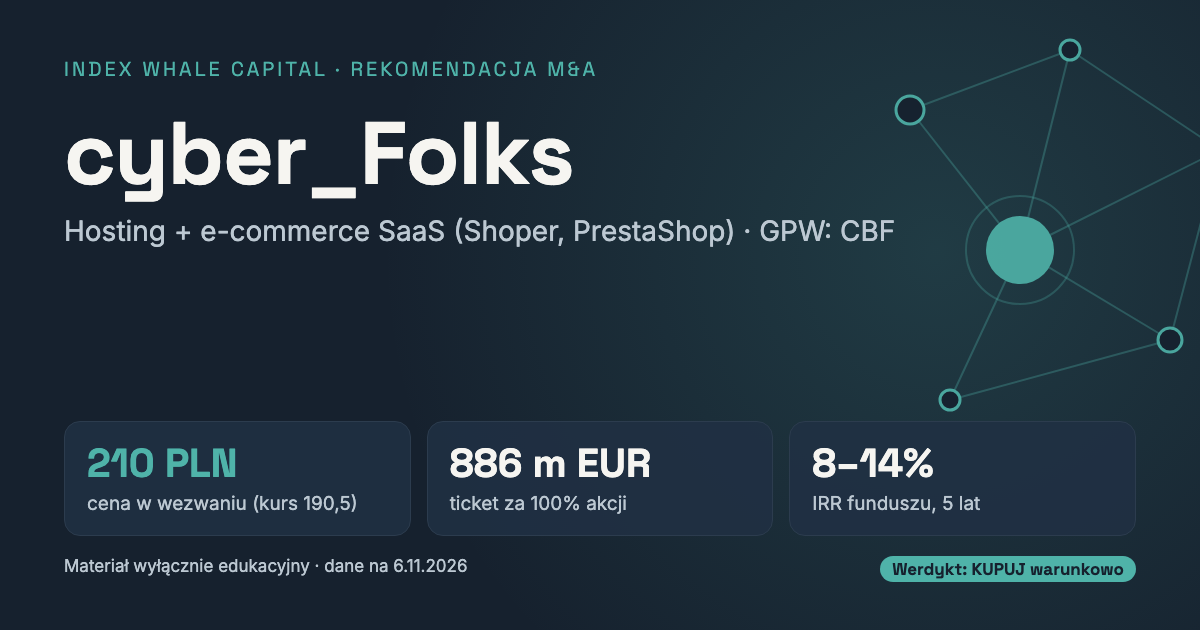
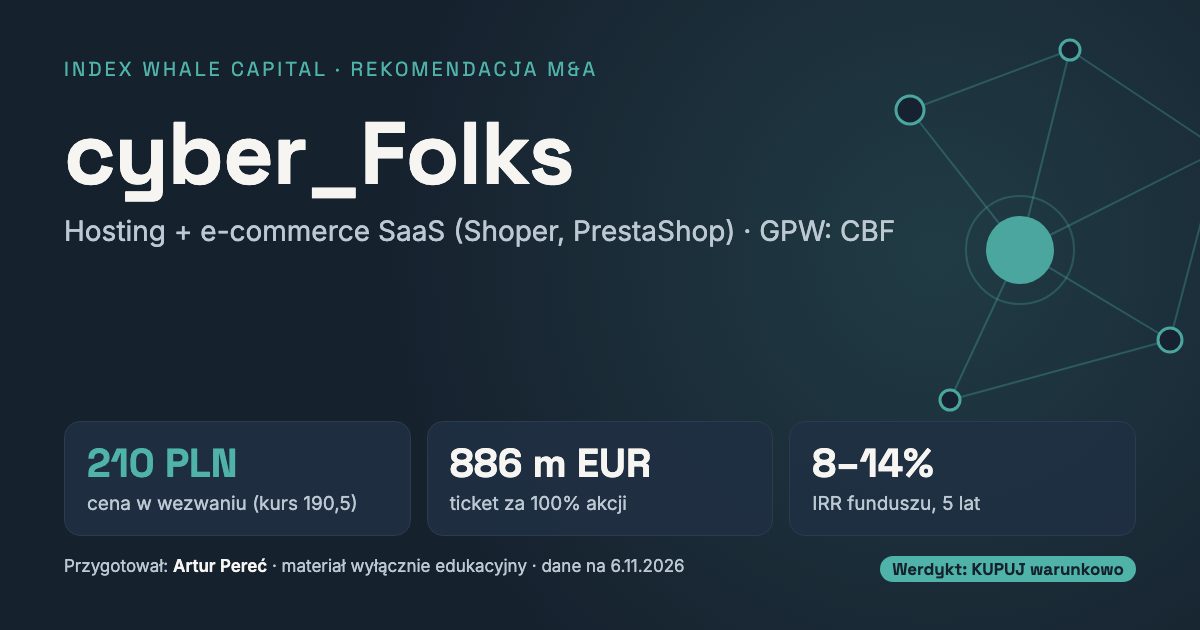
Dodaj autora: Artur Pereć (slajd tytułowy, grafika podglądu, README, model)

Changed region(s): [[0.0617, 0.8746, 0.5858, 0.9349]]

diff --git a/index.html b/index.html
@@ -4,21 +4,22 @@
 <meta charset="utf-8">
 <meta name="viewport" content="width=device-width, initial-scale=1">
 <title>cyber_Folks – rekomendacja inwestycyjna</title>
-<meta name="description" content="Przejęcie kontroli nad cyber_Folks: wezwanie na 100% po 210 PLN, ticket do 886 m EUR, IRR 8–14%. DCF/SOTP i mnożniki. Materiał edukacyjny.">
+<meta name="description" content="Przejęcie kontroli nad cyber_Folks: wezwanie na 100% po 210 PLN, ticket do 886 m EUR, IRR 8–14%. DCF/SOTP i mnożniki. Przygotował: Artur Pereć. Materiał edukacyjny.">
+<meta name="author" content="Artur Pereć">
 <meta property="og:type" content="website">
 <meta property="og:site_name" content="INDEX Whale Capital – rekomendacje M&amp;A">
 <meta property="og:title" content="cyber_Folks – rekomendacja inwestycyjna">
-<meta property="og:description" content="Przejęcie kontroli nad cyber_Folks: wezwanie na 100% po 210 PLN, ticket do 886 m EUR, IRR 8–14%. DCF/SOTP i mnożniki. Materiał edukacyjny.">
+<meta property="og:description" content="Przejęcie kontroli nad cyber_Folks: wezwanie na 100% po 210 PLN, ticket do 886 m EUR, IRR 8–14%. DCF/SOTP i mnożniki. Przygotował: Artur Pereć. Materiał edukacyjny.">
 <meta property="og:url" content="https://arturperec.github.io/cyberfolks-rekomendacja-ma/">
-<meta property="og:image" content="https://arturperec.github.io/cyberfolks-rekomendacja-ma/og.png">
-<meta property="og:image:secure_url" content="https://arturperec.github.io/cyberfolks-rekomendacja-ma/og.png">
+<meta property="og:image" content="https://arturperec.github.io/cyberfolks-rekomendacja-ma/og.png?v=2">
+<meta property="og:image:secure_url" content="https://arturperec.github.io/cyberfolks-rekomendacja-ma/og.png?v=2">
 <meta property="og:image:type" content="image/png">
 <meta property="og:image:width" content="1200">
 <meta property="og:image:height" content="630">
 <meta property="og:image:alt" content="cyber_Folks – rekomendacja inwestycyjna">
 <meta property="og:locale" content="pl_PL">
 <meta name="twitter:card" content="summary_large_image">
-<meta name="twitter:image" content="https://arturperec.github.io/cyberfolks-rekomendacja-ma/og.png">
+<meta name="twitter:image" content="https://arturperec.github.io/cyberfolks-rekomendacja-ma/og.png?v=2">
 <meta name="theme-color" content="#0b0f14">
 <link rel="preconnect" href="https://fonts.googleapis.com">
 <link rel="stylesheet" href="https://fonts.googleapis.com/css2?family=Space+Grotesk:wght@300..700&display=swap"><link rel="stylesheet" href="https://fonts.googleapis.com/css2?family=Inter:wght@400;600&display=swap">
@@ -61,6 +62,7 @@
 <p style="font-size:28px;color:#BCC8D2">GPW: CBF</p>
 <p style="font-size:28px;color:#BCC8D2">Sektor: SaaS / e-commerce / hosting</p>
 <p style="font-size:28px;color:#BCC8D2">21.11.2026</p>
+<p style="font-size:28px;color:#F6F5F1">Przygotował: <b>Artur Pereć</b></p>
 </div>
 <p style="font-size:24px;line-height:1.4;color:#9DAAB6;border-top:1px solid #2C3C4E;padding:20px 0 0 0">Zastrzeżenie: materiał wyłącznie edukacyjny, przygotowany w ramach projektu studenckiego. Nie stanowi rekomendacji inwestycyjnej w rozumieniu art. 3 ust. 1 pkt 34–35 rozporządzenia MAR (UE) nr 596/2014, porady inwestycyjnej w rozumieniu art. 76 ustawy o obrocie instrumentami finansowymi ani oferty nabycia lub zbycia instrumentów finansowych. Dane na 6.11.2026.</p>
 <aside>Prezentacja doradcy M&amp;A dla komitetu inwestycyjnego INDEX Whale Capital Management. Spółka: cyber_Folks S.A., notowana na GPW (ticker CBF), po połączeniu z Shoper S.A. (1.09.2026).</aside>

diff --git a/README.md b/README.md
@@ -2,6 +2,8 @@
 
 # cyber_Folks (GPW: CBF) – rekomendacja M&A
 
+**Przygotował: Artur Pereć**
+
 Projekt dla funduszu **INDEX Whale Capital Management** (komitet inwestycyjny, 21.11.2026).
 
 - **Prezentacja:** [index.html](https://arturperec.github.io/cyberfolks-rekomendacja-ma/) – 10 slajdów + tytułowy; strzałki ←/→, `N` – notatki prelegenta (źródła), `F` – pełny ekran, druk do PDF z przeglądarki.
